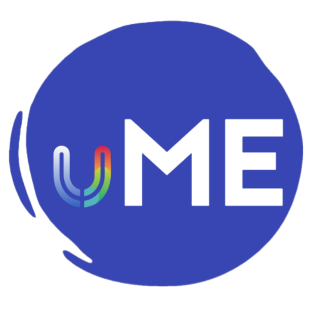
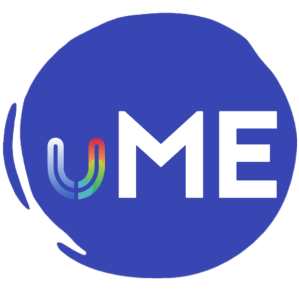
added readme img

diff --git a/README.md b/README.md
@@ -1,7 +1,7 @@
 <!-- PROJECT LOGO -->
 <div align="center">
     <a href="https://github.com/dhedgepeth/uMediaEditor">
-    <img src="assets/images/uME-icon.png" alt="Logo" width="80" height="80">
+    <img src="assets/images/uME-icon.png" alt="Logo" width="90" height="90">
   </a>
   <h3 align="center">uMediaEditor</h3>
 
